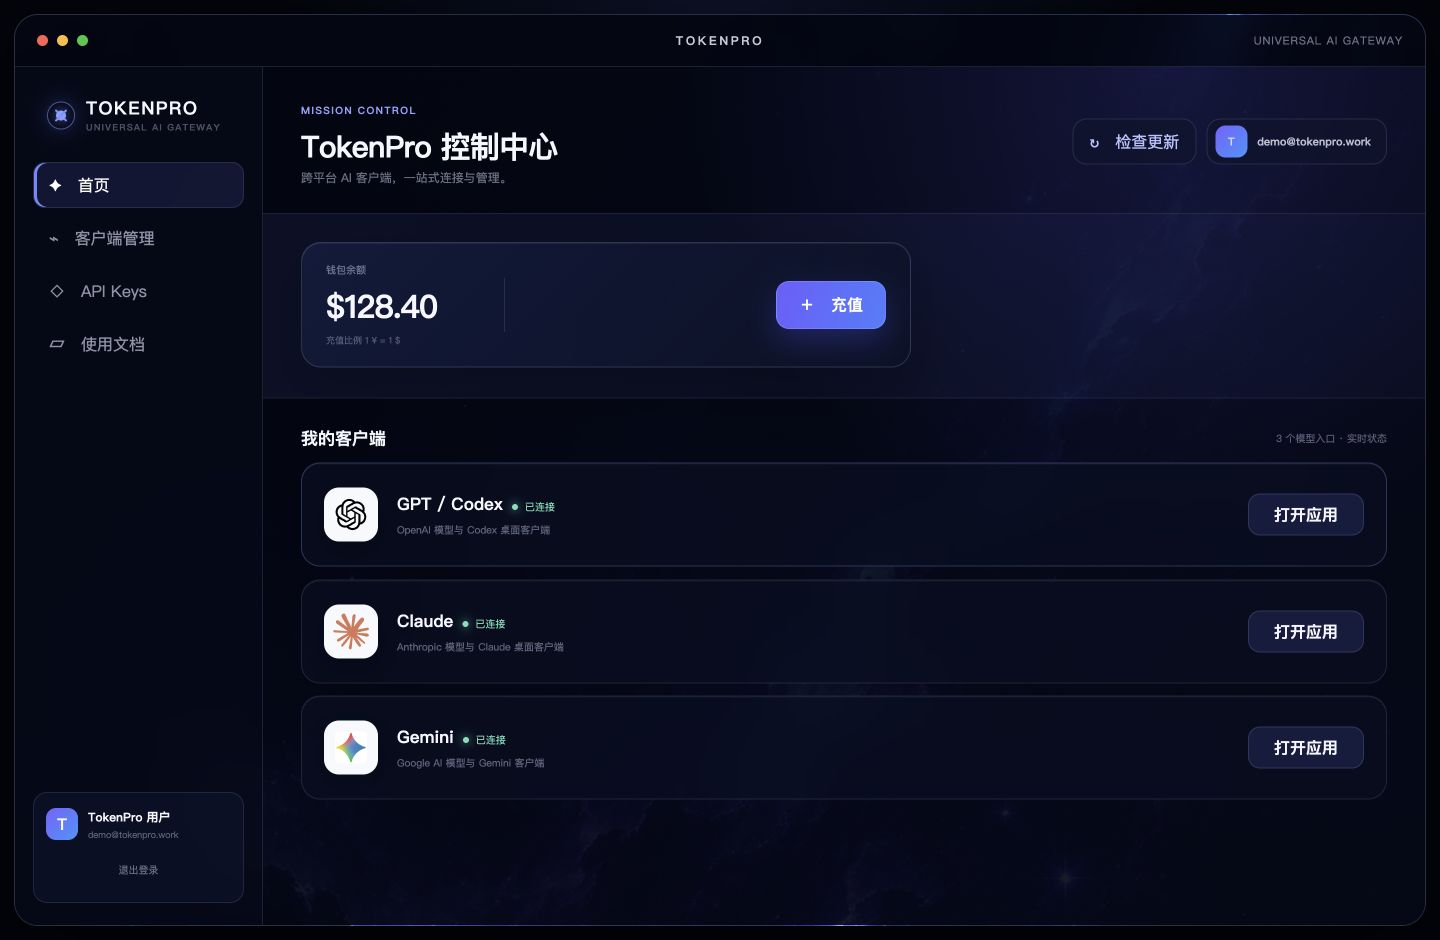
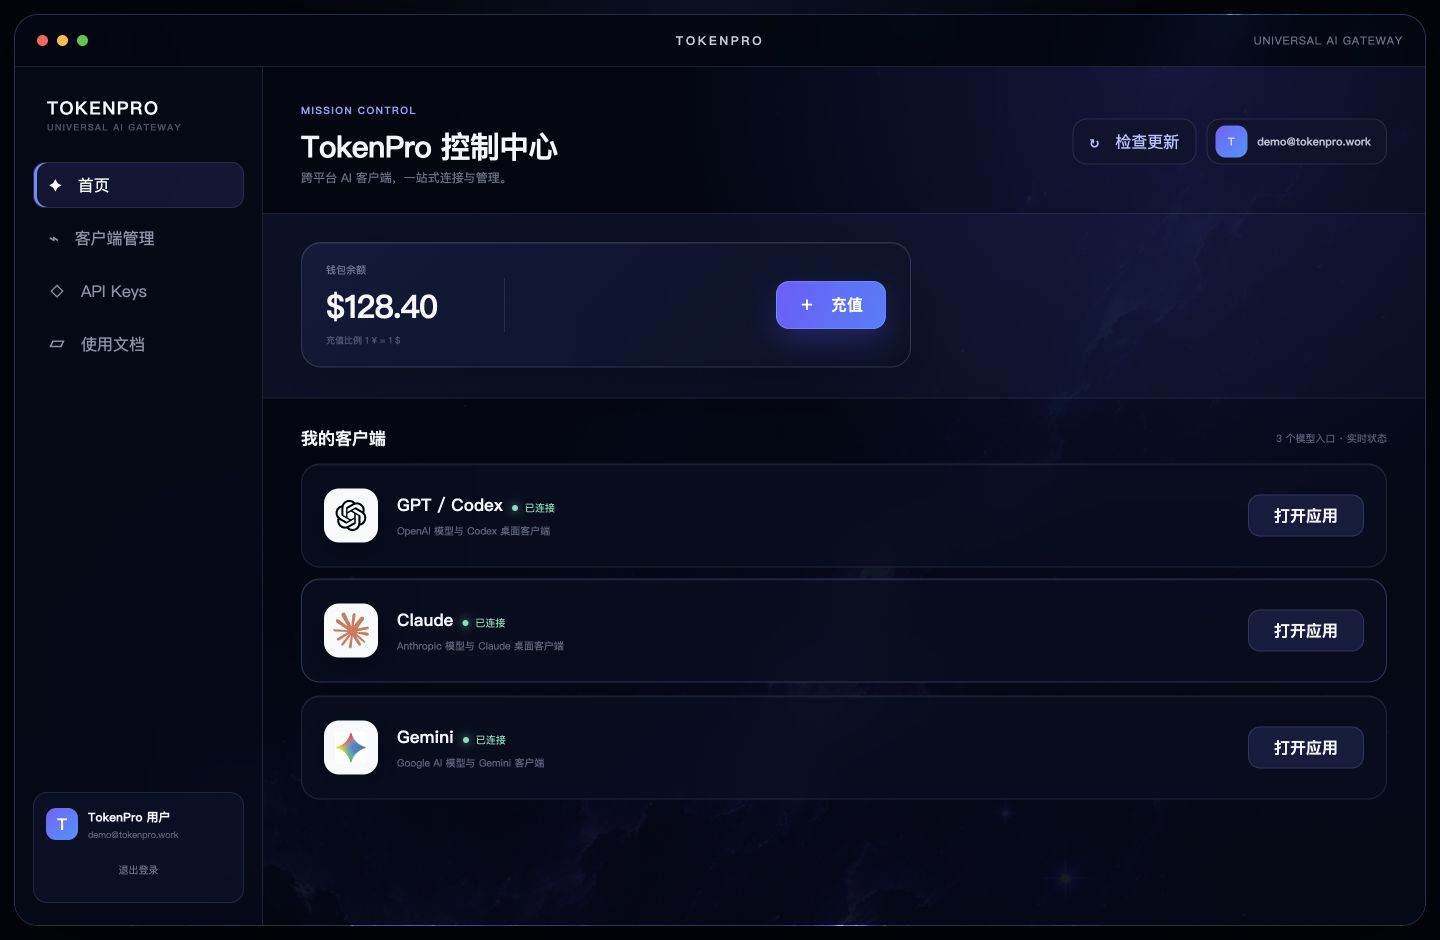
Refine dashboard brand treatment

diff --git a/design-preview/index.html b/design-preview/index.html
@@ -192,12 +192,7 @@
       background: rgba(5,9,24,.68);
       backdrop-filter: blur(24px);
     }
-    .side-brand { display: flex; align-items: center; gap: 11px; padding: 0 14px 30px; font-size: 18px; font-weight: 800; letter-spacing: .08em; }
-    .brand-orbit { width: 28px; height: 28px; position: relative; border: 1px solid rgba(144,161,255,.5); border-radius: 50%; box-shadow: 0 0 22px rgba(92,115,255,.28); }
-    .brand-orbit::before, .brand-orbit::after { content: ""; position: absolute; left: 5px; right: 5px; top: 12px; height: 2px; border-radius: 2px; background: #8092ff; transform: rotate(45deg); }
-    .brand-orbit::after { transform: rotate(-45deg); }
-    .brand-orbit i { position: absolute; inset: 8px; border-radius: 50%; background: #83a2ff; box-shadow: 0 0 12px #607cff; }
-    .brand-copy { line-height: 1; }
+    .side-brand { padding: 0 14px 30px; font-size: 18px; font-weight: 800; line-height: 1; letter-spacing: .08em; }
     .side-caption { display: block; margin-top: 6px; color: rgba(193,203,235,.38); font-size: 9px; font-weight: 500; letter-spacing: .14em; }
     .nav { display: grid; gap: 7px; }
     .nav button, .logout {
@@ -309,7 +304,7 @@
     </main>
     <section class="dashboard-view" id="dashboardView">
       <aside class="sidebar">
-        <div class="side-brand"><span class="brand-orbit"><i></i></span><span class="brand-copy">TOKENPRO<span class="side-caption">UNIVERSAL AI GATEWAY</span></span></div>
+        <div class="side-brand">TOKENPRO<span class="side-caption">UNIVERSAL AI GATEWAY</span></div>
         <nav class="nav" aria-label="主导航">
           <button class="active" data-page="home">✦　首页</button>
           <button data-page="clients">⌁　客户端管理</button>
